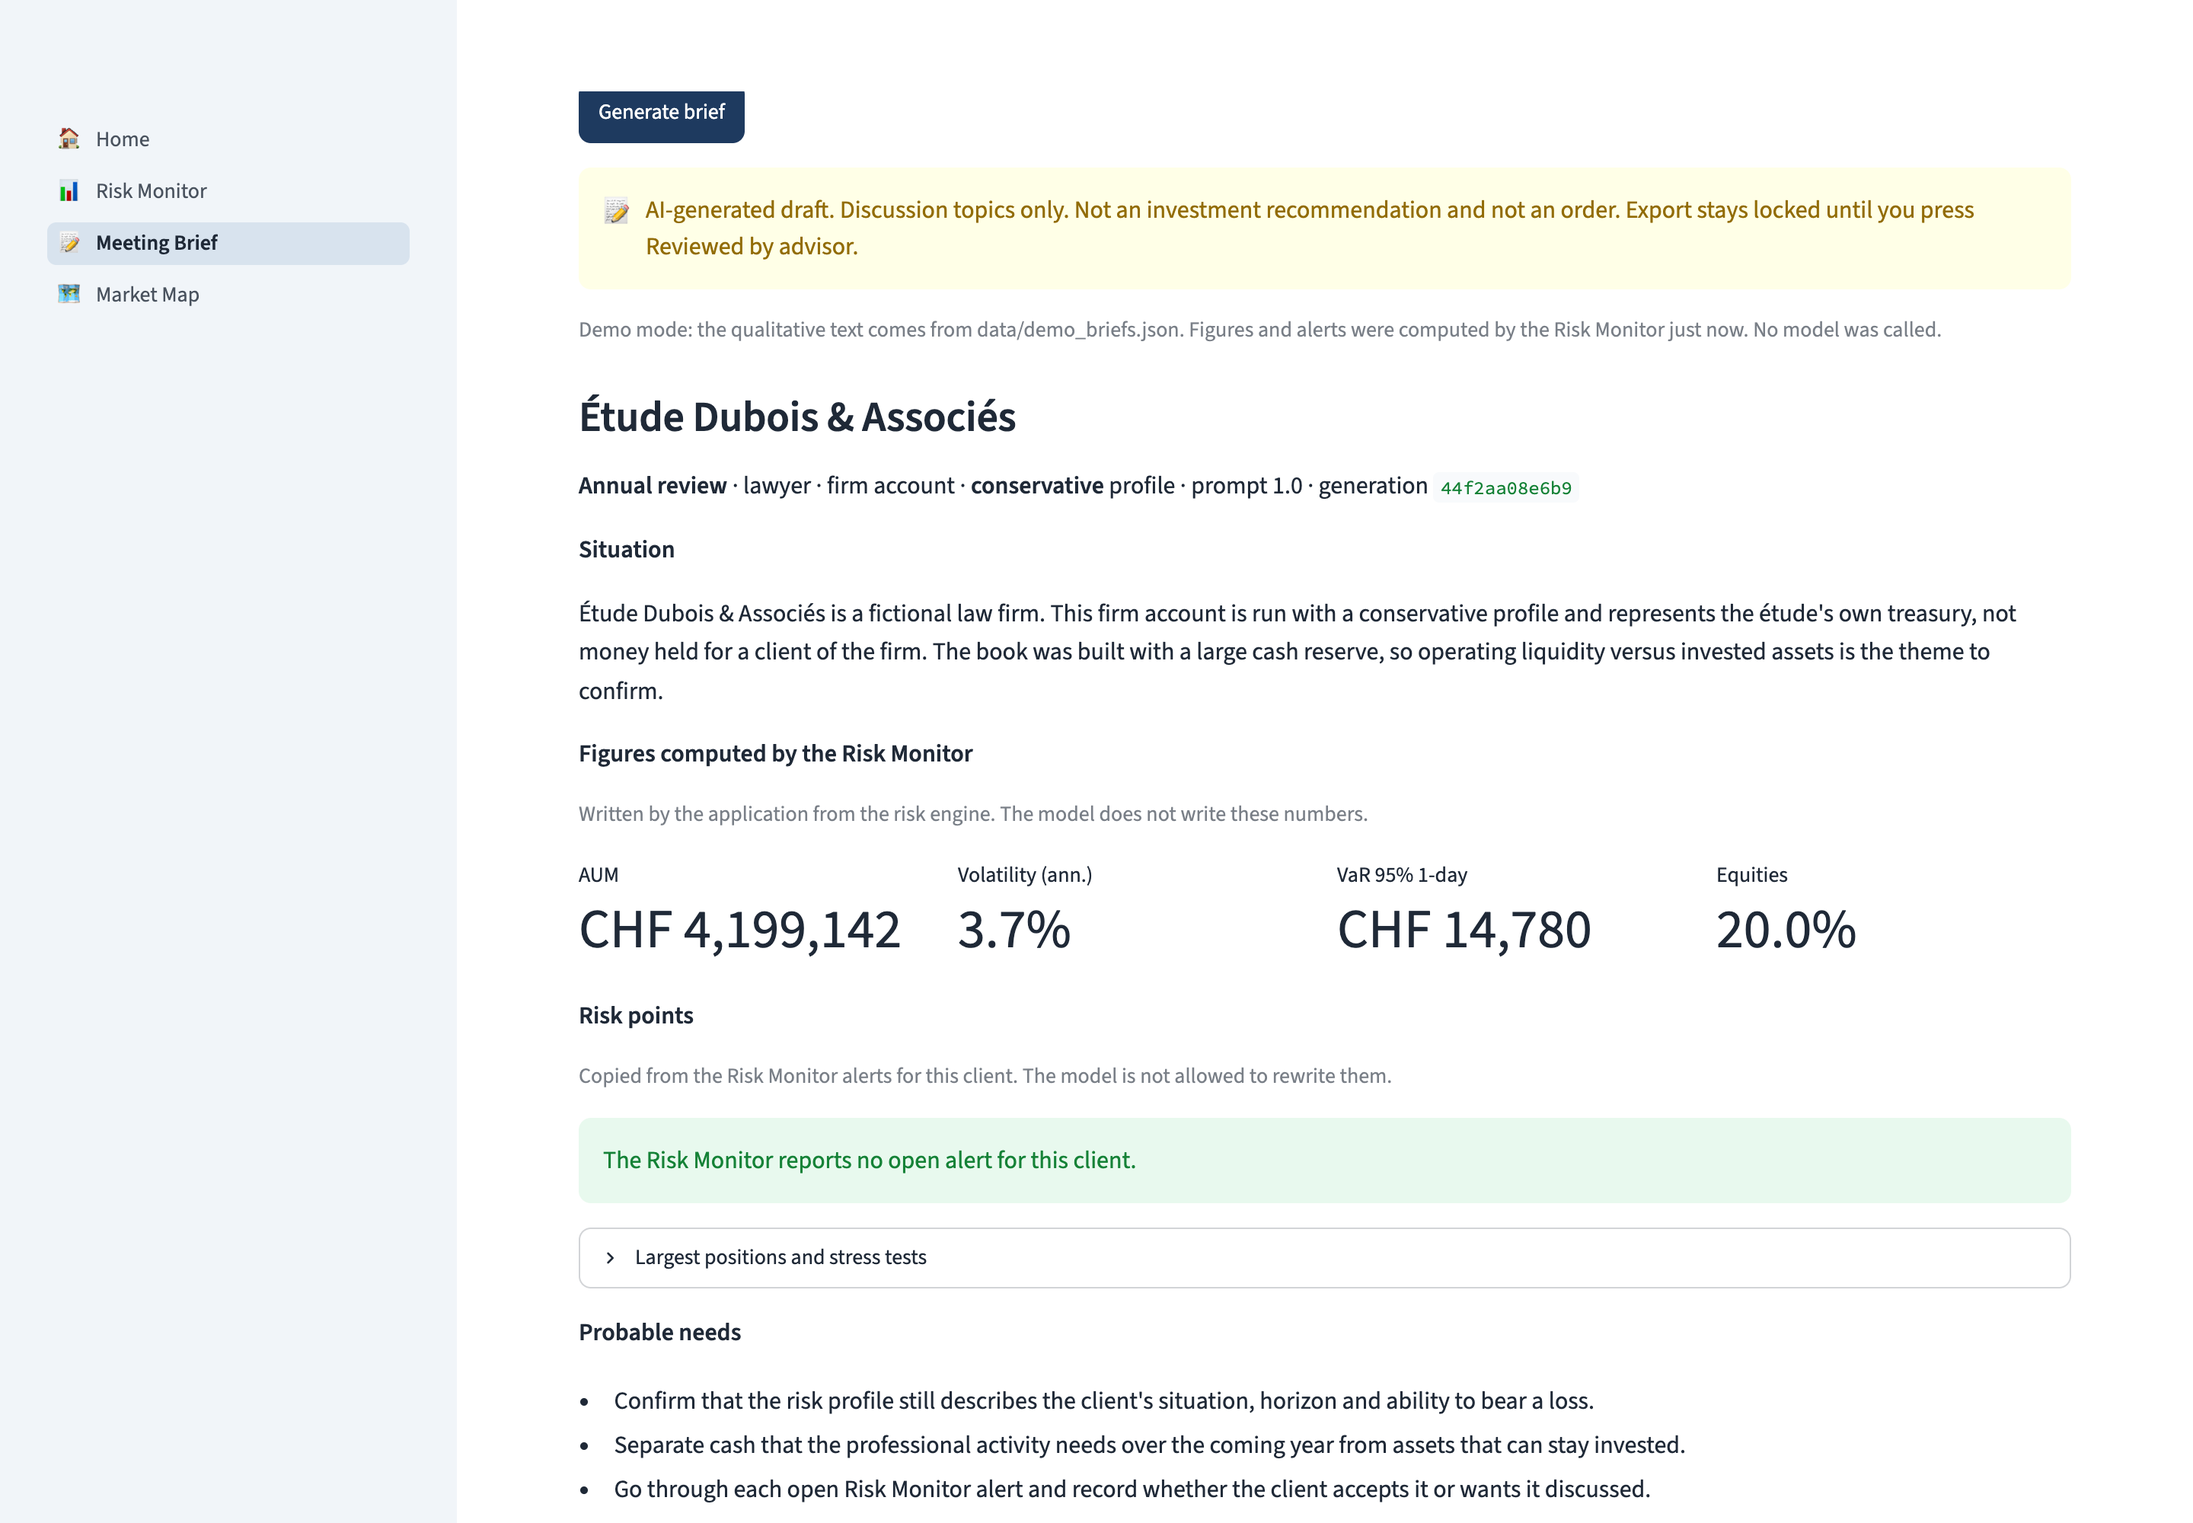
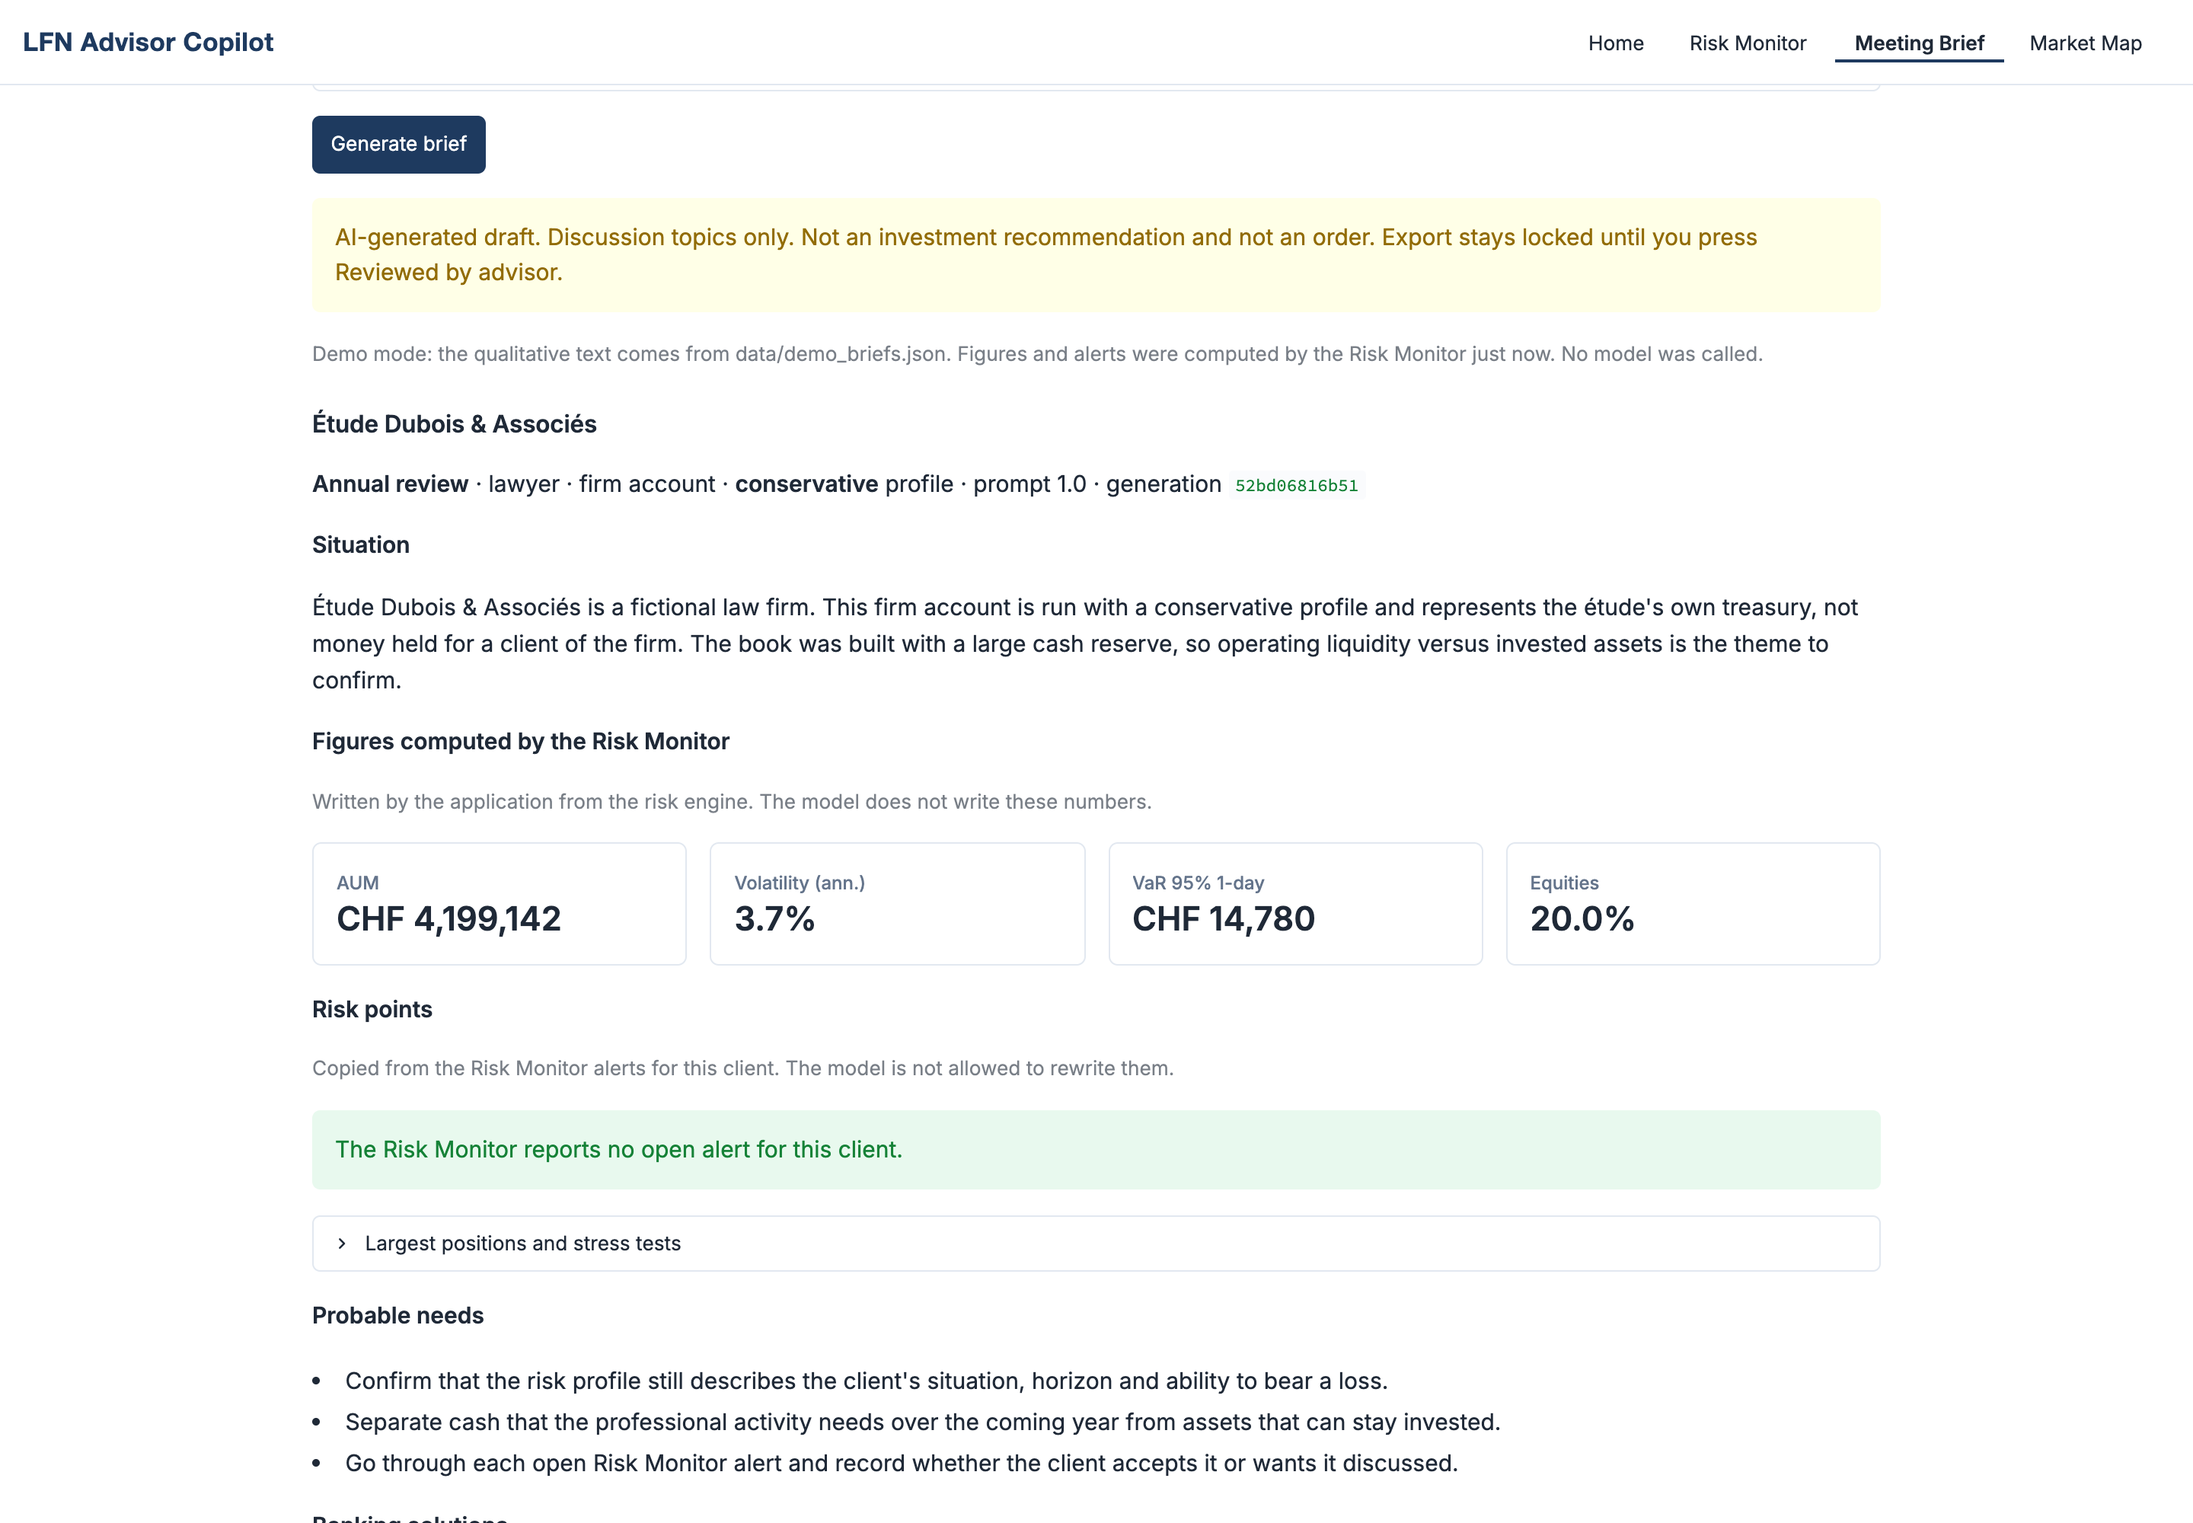
Give the app a sober private-bank look with top navigation
- Replace the sidebar menu with a top bar: text wordmark on the left,
  Home, Risk Monitor, Meeting Brief and Market Map on the right, the
  active page underlined in navy. No sidebar on any page.
- Inter font, smaller headings, more spacing, metric cards with a thin
  border on white. Remove every emoji.
- Shorten the Home page into one direct "What it does" section and add
  a marked placeholder for "Why I built this".
- README: add "How this was built" and a Home screenshot.
- Retake all screenshots with the new design.

diff --git a/app.py b/app.py
@@ -1,4 +1,4 @@
-"""LFN Advisor Copilot: entrypoint. The sidebar label comes from st.Page, not the filename."""
+"""LFN Advisor Copilot: entrypoint. Top navigation, shared style, and the Home page."""
 
 from __future__ import annotations
 
@@ -8,102 +8,120 @@ import streamlit as st
 
 from core import APP_NAME, AUTHOR_CREDIT, DISCLAIMER
 
-SCREENSHOTS = Path(__file__).resolve().parent / "docs" / "screenshots"
+ROOT = Path(__file__).resolve().parent
+SCREENSHOTS = ROOT / "docs" / "screenshots"
+WORDMARK = ROOT / "assets" / "wordmark.svg"
 TAGLINE = (
     "A prototype assistant for LFN client advisors: it monitors portfolio risk, "
     "prepares meetings with guardrailed AI, and helps prioritise prospects."
 )
+# Placeholder until the author supplies the text. Leave as None to show the marked placeholder.
+WHY_I_BUILT_THIS: str | None = None
+
+# Applied to every page because the entrypoint runs before each page.
+STYLE = """
+<style>
+[data-testid="stMainBlockContainer"] { max-width: 1180px; padding-top: 4.5rem; padding-bottom: 4rem; }
+[data-testid="stMain"] [data-testid="stVerticalBlock"] { gap: 1.1rem; }
+h1 { letter-spacing: -0.01em; margin-bottom: 0.25rem; }
+h2, h3 { margin-top: 0.75rem; }
+[data-testid="stMetric"] {
+  background: #ffffff;
+  border: 1px solid #e2e8f0;
+  border-radius: 6px;
+  padding: 0.9rem 1rem;
+}
+[data-testid="stMetricLabel"] p { color: #64748b; font-size: 0.8rem; font-weight: 500; }
+[data-testid="stMetricValue"] { font-size: 1.45rem; font-weight: 600; color: #1f2937; }
+[data-testid="stHeader"] { border-bottom: 1px solid #e2e8f0; }
+[data-testid="stHeader"] .rc-overflow { justify-content: flex-end; }
+[data-testid="stTopNavLink"] { background: transparent !important; border-radius: 0; padding-left: 0.85rem; padding-right: 0.85rem; }
+[data-testid="stTopNavLink"]:hover { color: #1e3a5f; }
+[data-testid="stTopNavLink"][aria-current="page"] {
+  color: #1e3a5f;
+  box-shadow: inset 0 -2px 0 #1e3a5f;
+}
+[data-testid="stTopNavLink"][aria-current="page"] p { font-weight: 600; }
+[data-testid="stImage"] img { border: 1px solid #e2e8f0; border-radius: 6px; }
+</style>
+"""
 
 
 def home() -> None:
-    st.warning(DISCLAIMER, icon="⚠")
+    st.warning(DISCLAIMER)
     st.title(APP_NAME)
-    st.markdown(f"#### {TAGLINE}")
-    st.markdown(
-        "*An independent student prototype for client advisors serving lawyers, fiduciaries and notaries (LFN).*"
-    )
+    st.markdown(f"**{TAGLINE}**")
     st.markdown(AUTHOR_CREDIT)
 
-    st.subheader("The problem")
+    st.subheader("What it does")
     st.markdown(
         """
-LFN clients are professionals with two sets of needs: their own (private wealth, firm treasury,
-Lombard credit) and those of the clients they represent (estates, asset structures, property deals).
-An advisor covering dozens of such relationships must spot risk issues early and prepare every
-meeting thoroughly, with limited time.
-"""
-    )
+LFN advisors cover dozens of lawyers, fiduciaries and notaries, each with private wealth, a firm account and
+client mandates. The copilot does the monitoring and the preparation; the advisor keeps the judgement.
 
-    st.subheader("The solution")
-    st.markdown(
-        """
-A small toolkit that automates the monitoring work and leaves judgement to the advisor:
-
-| Module | What it does | Status |
+| Module | For the advisor | Status |
 |---|---|---|
-| **Risk Monitor** | Values fictional portfolios with real market data; volatility, VaR, concentration, Lombard LTV, profile compliance, stress tests and automatic alerts. | Available |
-| **Meeting Brief (AI)** | Structured pre-meeting briefing for one fictional client, with guardrails and human review. | Available |
-| **LFN Market Map** | Maps law, fiduciary and notary firms in Geneva and Vaud and ranks prospects with a transparent score. | Available (fictional example data) |
+| **Risk Monitor** | Fictional portfolios at today's prices: VaR, Lombard LTV, profile limits, stress tests, alerts. | Available |
+| **Meeting Brief** | A pre-meeting draft for one client. AI writes the text, the risk engine the figures, the advisor approves. | Available |
+| **Market Map** | Law, fiduciary and notary firms in Geneva and Vaud, ranked by a transparent prospect score. | Available |
 """
     )
     st.info(
-        "**Market Map data are a fictional example.** Access to the federal commercial register API (Zefix) "
-        "is restricted: it requires credentials issued by the Federal Registry of Commerce and has no "
-        "industry (NOGA) code. So the public demo ranks invented firms, all named “Exemple…”, placed on "
-        "real Geneva and Vaud communes. The scoring and the map work the same on a real register extract.",
-        icon="ℹ",
+        "The Market Map uses fictional firms. The federal commercial register API (Zefix) requires credentials "
+        "and has no industry code, so the public demo ranks invented firms placed on real communes."
     )
 
     st.subheader("The modules")
     modules = [
-        ("risk_monitor.png", "Risk Monitor — book overview with alerts by severity.", "app_pages/1_Risk_Monitor.py", "Open the Risk Monitor", "📊"),
-        ("meeting_brief.png", "Meeting Brief — demo draft, risk-engine figures.", "app_pages/2_Meeting_Brief.py", "Open the Meeting Brief", "📝"),
-        ("market_map.png", "Market Map — fictional firms on commune centres.", "app_pages/3_Market_Map.py", "Open the Market Map", "🗺"),
+        ("risk_monitor.png", "Risk Monitor", "app_pages/1_Risk_Monitor.py"),
+        ("meeting_brief.png", "Meeting Brief", "app_pages/2_Meeting_Brief.py"),
+        ("market_map.png", "Market Map", "app_pages/3_Market_Map.py"),
     ]
-    for column, (image, caption, page, label, icon) in zip(st.columns(3), modules):
+    for column, (image, label, page) in zip(st.columns(3, gap="medium"), modules):
         with column:
             path = SCREENSHOTS / image
             if path.exists():
-                st.image(str(path), caption=caption, width="stretch")
-            st.page_link(page, label=label, icon=icon)
+                st.image(str(path), width="stretch")
+            st.page_link(page, label=f"Open the {label}")
+
+    st.subheader("Why I built this")
+    if WHY_I_BUILT_THIS:
+        st.markdown(WHY_I_BUILT_THIS)
+    else:
+        st.caption("[Placeholder — text to be provided by Yousif Bag.]")
 
     st.subheader("Responsible AI")
     st.markdown(
         """
-The Meeting Brief is the only module that uses a language model. Its guardrails are on by default:
-
-- **Only fictional data goes in.** The prompt holds one fictional client from the Risk Monitor. The advisor's free-text note is blocked if it contains a name, an email, an IBAN or a Swiss AVS number.
-- **Figures come from the risk engine.** AUM, volatility, VaR and alerts are written by the application. Any other number the model writes is marked “(to verify)”.
-- **Discussion topics, not orders.** Banking solutions come from a closed list of generic product families, and sentences that read like a trading instruction are rewritten.
-- **A human signs off.** The draft is labelled “AI-generated draft”, and export to PDF or Markdown stays locked until the advisor marks it as reviewed.
-- **No key, no cost.** Without an API key the page uses pre-written text and makes no model call. With a key, live calls are capped at five per session and each one is logged without the brief or the note.
+- Only the selected fictional client goes into the prompt; notes with names, emails, IBAN or AVS numbers are blocked.
+- Figures come from the risk engine. Any other number the model writes is marked "(to verify)".
+- Discussion topics, not orders: a closed list of product families, and trading-style sentences are rewritten.
+- Export stays locked until the advisor marks the draft as reviewed.
+- Without an API key the page runs on pre-written text; with a key, five calls per session at most.
 """
     )
 
     st.subheader("Tech stack")
     st.markdown(
-        """
-Python · Streamlit (multipage) · pandas · NumPy · Plotly · yfinance (Yahoo Finance prices, CSV fallback) ·
-Anthropic Claude API through one wrapper (optional) · pydantic (output schema) · fpdf2 (PDF export) ·
-swisstopo geo.admin.ch (commune geocoding) · pytest · Streamlit Community Cloud.
-"""
+        "Python · Streamlit · pandas · NumPy · Plotly · yfinance · Anthropic API (optional) · pydantic · fpdf2 · "
+        "swisstopo geo.admin.ch · pytest"
     )
 
     st.divider()
-    st.caption(
-        f"{DISCLAIMER} All clients, portfolios and Market Map firms are invented. No affiliation with any bank. "
-        "Market data from Yahoo Finance, for illustration only."
-    )
+    st.caption(f"{DISCLAIMER} All clients and firms are invented. No affiliation with any bank.")
     st.markdown(AUTHOR_CREDIT)
 
 
-st.set_page_config(page_title=APP_NAME, layout="wide")
+st.set_page_config(page_title=APP_NAME, layout="wide", initial_sidebar_state="collapsed")
+st.logo(str(WORDMARK), size="large")
+st.html(STYLE)
 navigation = st.navigation(
     [
-        st.Page(home, title="Home", default=True, icon="🏠"),
-        st.Page("app_pages/1_Risk_Monitor.py", title="Risk Monitor", icon="📊", url_path="Risk_Monitor"),
-        st.Page("app_pages/2_Meeting_Brief.py", title="Meeting Brief", icon="📝", url_path="Meeting_Brief"),
-        st.Page("app_pages/3_Market_Map.py", title="Market Map", icon="🗺", url_path="Market_Map"),
-    ]
+        st.Page(home, title="Home", default=True),
+        st.Page("app_pages/1_Risk_Monitor.py", title="Risk Monitor", url_path="Risk_Monitor"),
+        st.Page("app_pages/2_Meeting_Brief.py", title="Meeting Brief", url_path="Meeting_Brief"),
+        st.Page("app_pages/3_Market_Map.py", title="Market Map", url_path="Market_Map"),
+    ],
+    position="top",
 )
 navigation.run()

diff --git a/app_pages/2_Meeting_Brief.py b/app_pages/2_Meeting_Brief.py
@@ -59,13 +59,11 @@ def _render_draft(draft: BriefDraft, reviewed: bool, reviewed_at: str | None) ->
         st.warning(
             f"{BANNER}. {DRAFT_NOTICE} An advisor has marked this draft as reviewed. "
             "The file still carries this banner.",
-            icon="📝",
         )
     else:
         st.warning(
             f"{BANNER}. {DRAFT_NOTICE} "
             "Export stays locked until you press Reviewed by advisor.",
-            icon="📝",
         )
     if draft.fallback_reason:
         st.info(draft.fallback_reason)
@@ -291,7 +289,7 @@ None of this is investment advice, and every client is fictional.
 
 _init_state()
 
-st.warning(DISCLAIMER, icon="⚠")
+st.warning(DISCLAIMER)
 st.title("Meeting Brief")
 st.caption(
     "A pre-meeting draft for one fictional LFN client. "

diff --git a/app_pages/3_Market_Map.py b/app_pages/3_Market_Map.py
@@ -25,7 +25,7 @@ TYPE_COLORS = {"lawyer": "#1e3a5f", "fiduciary": "#3b6ea5", "notary": "#64748b"}
 TYPE_LABELS = {"lawyer": "Lawyer", "fiduciary": "Fiduciary", "notary": "Notary"}
 
 st.set_page_config(page_title=f"Market Map · {APP_NAME}", layout="wide")
-st.warning(DISCLAIMER, icon="⚠")
+st.warning(DISCLAIMER)
 st.title("LFN Market Map")
 st.caption("Law, fiduciary and notary firms in Geneva and Vaud. A prospecting map, not a client list.")
 

diff --git a/tests/test_pages.py b/tests/test_pages.py
@@ -35,6 +35,8 @@ def test_landing_page_renders() -> None:
     assert any("Zefix" in i.value for i in at.info)
     assert len(at.get("image")) == 3
     assert any("Yousif Bag" in m.value for m in at.markdown)
+    assert any(s.value == "Why I built this" for s in at.subheader)
+    assert not any(s.value in {"The problem", "The solution"} for s in at.subheader)
 
 
 def test_meeting_brief_page_guards_export(monkeypatch: pytest.MonkeyPatch) -> None:

diff --git a/app_pages/1_Risk_Monitor.py b/app_pages/1_Risk_Monitor.py
@@ -62,7 +62,7 @@ def style_overview(df: pd.DataFrame) -> pd.io.formats.style.Styler:
     )
 
 
-st.warning(DISCLAIMER, icon="⚠")
+st.warning(DISCLAIMER)
 st.title("Risk Monitor")
 st.caption(
     "Fictional LFN client portfolios valued with real market data, in CHF. "

diff --git a/README.md b/README.md
@@ -25,6 +25,10 @@ has no link to any bank.
 | **Meeting Brief (AI)** | A one-page pre-meeting draft for one client. The AI writes the narrative, the risk engine writes the figures, and the advisor must approve the draft before export. |
 | **LFN Market Map** | Law, fiduciary and notary firms in Geneva and Vaud on a map, with a prospect score whose weights the advisor sets. The public demo uses fictional firms (see [Limits](#limits)). |
 
+### Home
+
+![Home: top navigation bar, project summary and the three modules](docs/screenshots/home.png)
+
 ### Risk Monitor
 
 ![Risk Monitor: book overview, one row per fictional client coloured by its most severe alert](docs/screenshots/risk_monitor.png)
@@ -53,6 +57,11 @@ The Meeting Brief is the only module that calls a language model, and the guardr
    capped at five per session, and the session journal records the time, prompt version, client and review status,
    never the brief, the note or the key.
 
+## How this was built
+
+I designed the project, wrote the specifications and validated the formulas. The code was written with an AI
+assistant (Claude in Cursor), under my control.
+
 ---
 
 ## Details for technical readers
@@ -60,7 +69,8 @@ The Meeting Brief is the only module that calls a language model, and the guardr
 ### Architecture
 
 ```
-app.py               entrypoint: st.navigation and the Home page
+app.py               entrypoint: top navigation, shared style, Home page
+assets/              text wordmark shown in the navigation bar
 app_pages/           Streamlit pages (UI only)
   1_Risk_Monitor.py
   2_Meeting_Brief.py
